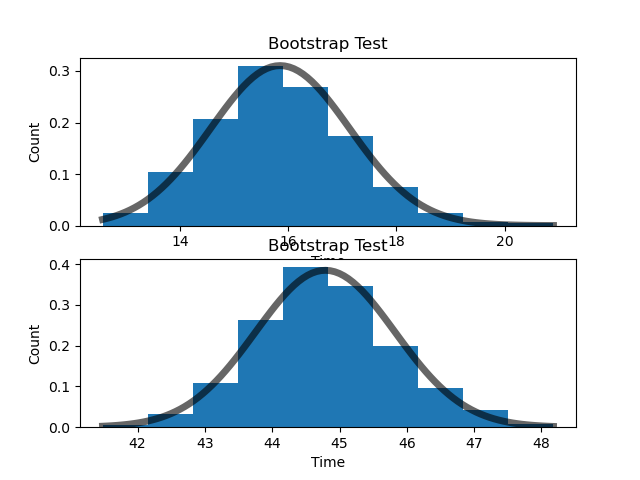
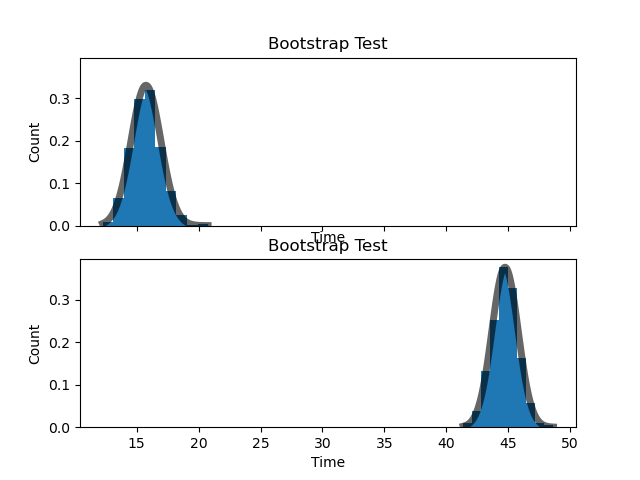
doing the test

diff --git a/src/testing.py b/src/testing.py
@@ -70,14 +70,46 @@ def welch_test_statistic(sample_1, sample_2):
     return numerator / np.sqrt(denominator_sq)
 
 
-# fig, ax_1 = plt.subplots()
-# fig, ax_2 = plt.subplots()
-# fig, ax_compare = plt.subplots(2)
-# for df, ax, ax2 in zip([JMCSR_Any, JMCSR_AnyGl], [ax_1, ax_2], ax_compare.flatten()):
-#     plot_bootstrap(df, ax)
-#     plot_bootstrap(df, ax2)
-# plt.savefig("./images/hypotesting/bootstraptest.png")
+def welch_satterhwaithe_df(sample_1, sample_2):
+    ss1 = len(sample_1)
+    ss2 = len(sample_2)
+    df = ((np.var(sample_1) / ss1 + np.var(sample_2) / ss2) ** (2.0)) / (
+        (np.var(sample_1) / ss1) ** (2.0) / (ss1 - 1)
+        + (np.var(sample_2) / ss2) ** (2.0) / (ss2 - 1)
+    )
+    return df
+
+
+def welch_test_statistic(sample_1, sample_2):
+    numerator = np.mean(sample_1) - np.mean(sample_2)
+    denominator_sq = (np.var(sample_1) / len(sample_1)) + (
+        np.var(sample_2) / len(sample_2)
+    )
+    return numerator / np.sqrt(denominator_sq)
+
+
+fig, ax_1 = plt.subplots()
+fig, ax_2 = plt.subplots()
+fig, ax_compare = plt.subplots(2, sharex=True, sharey=True)
+for df, ax, ax2 in zip([JMCSR_Any, JMCSR_AnyGl], [ax_1, ax_2], ax_compare.flatten()):
+    # plot_bootstrap(df, ax)
+    plot_bootstrap(df, ax2)
+plt.savefig("./images/hypotesting/bootstraptest.png")
+plt.tight_layout()
 # plt.show()
 # Test wether the difference is significant
-print(welch_test_statistic(bootstrap_test(JMCSR_Any), bootstrap_test(JMCSR_AnyGl)))
+boot_any, boot_anygl = bootstrap_test(JMCSR_Any), bootstrap_test(JMCSR_AnyGl)
+
+sem_any, sem_anygl = stats.sem(boot_any), stats.sem(boot_anygl)
+degoffree = welch_satterhwaithe_df(boot_any, boot_anygl)
+teststat = welch_test_statistic(boot_any, boot_anygl)
+p_val = stats.ttest_ind(boot_any, boot_anygl)
+print(sem_any, sem_anygl)
+print(degoffree, teststat)
+print(p_val)
+plt.show()
+# print(welch_test_statistic(boot_any, boot_anygl))
 # -556.0919156975093
+# 0.03995593835054164 0.033410421929411814
+# 1937.2897306025372 -556.8467828075966
+# Ttest_indResult(statistic=-556.5682897755202, pvalue=0.0)

diff --git a/README.md b/README.md
@@ -8,9 +8,7 @@ When I was exploring the website it didn't go to a special url for the data. So 
 
 I then cleaned the data up and made Panda dataframes out of the data. After that I wrote them down to CSV so I didn't have to be constantly requesting from the server.
 
-I wanted to combine some of the Tables so that I can compare the data. So I combined the tables into there respective groups and one that is all of the data. 
-
-## Analyzing
+I then wanted to combine some of the Tables so that I can compare the data of different types of speedrunning.
 
 ## Images
 
@@ -32,9 +30,18 @@ I wanted to combine some of the Tables so that I can compare the data. So I comb
 
 ## Hypothesis
 
-After seeing the images above I wonder what would be faster, Glitchless or Glitched.
+After seeing the images above I wonder what would be faster, Glitchless or Glitched speedruns.
 
-Null: Neither version of Speedrunning is significatly faster then the other.
+Null: Neither version of Speedrunning is significantly faster then the other.
 Alternate: Glitched Minecraft Speedruns are faster then Glitchless Minecraft Speedruns.
 
 significance level = 5%
+
+!['bootstraptest'](images/hypotesting/bootstraptest.png)
+
+Test results:
+    0.04066640645942682 0.03318517320541225
+    1920.7514999618993 -552.9625199007932
+    Ttest_indResult(statistic=-552.685969485946, pvalue=0.0)
+
+Since the p value is under the significant value the null hypotheses is rejected.
